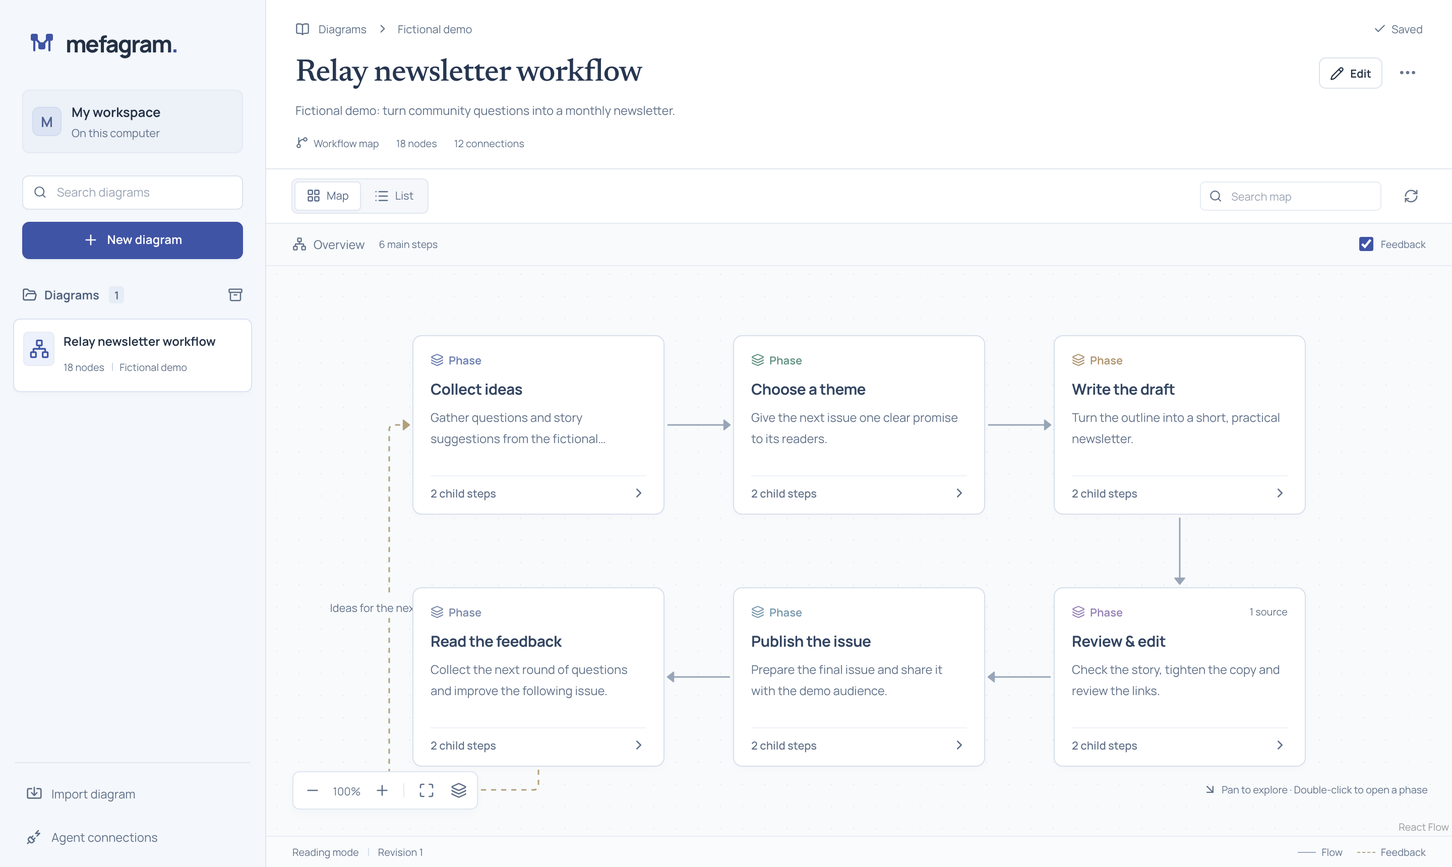
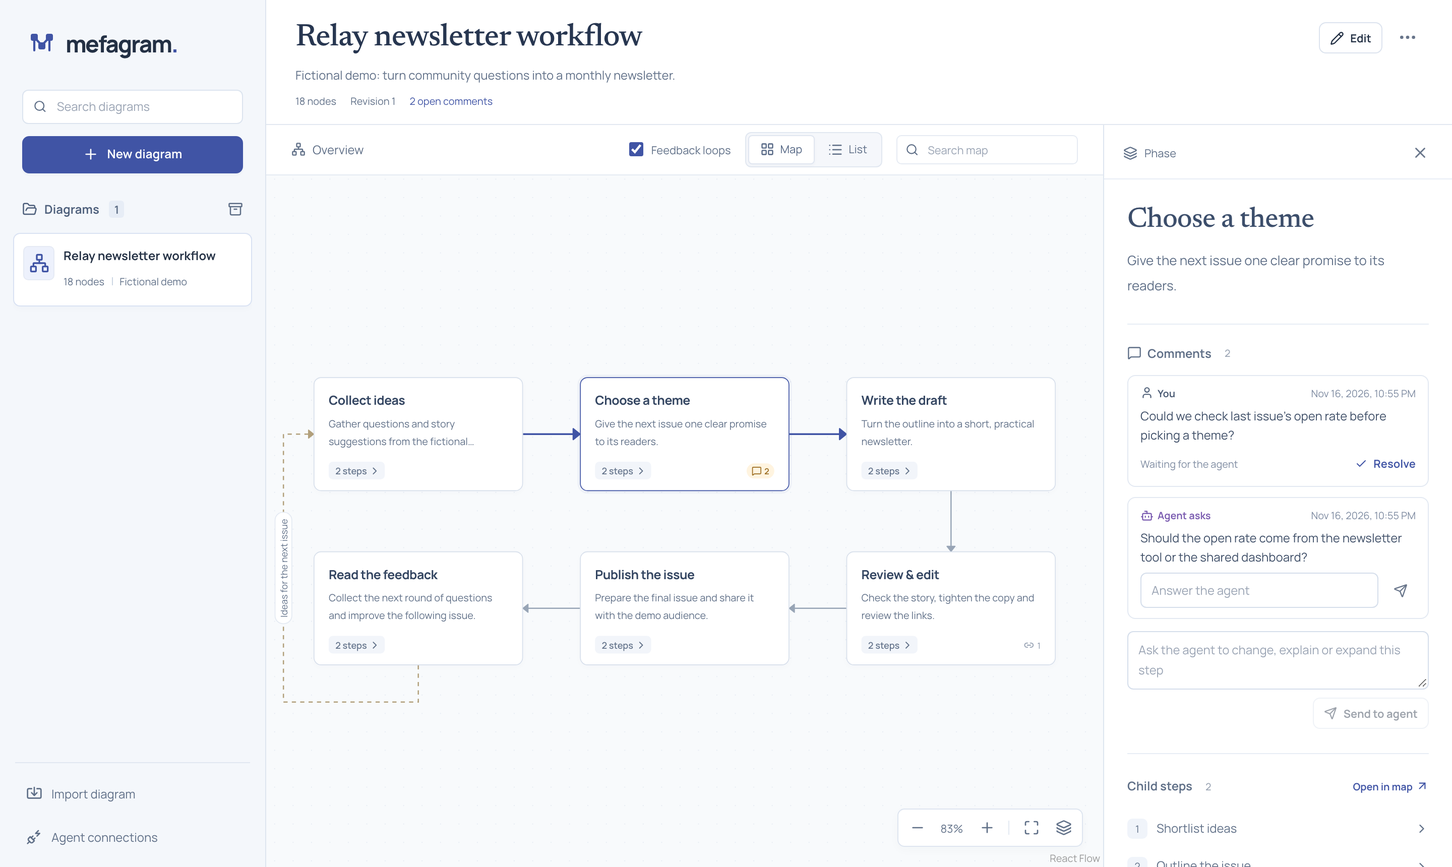
Document agent features and refresh the README
Explain the plugin, stdio CLI, feedback loop, current view, live
updates, projects, code references, Mermaid and SVG in the README and
agent guide, record verification, and show comments in the screenshot.
Edge labels on vertical runs now follow the line instead of covering a
card, and a node's comments come first in the inspector.

diff --git a/src/components/diagram-canvas.tsx b/src/components/diagram-canvas.tsx
@@ -157,26 +157,39 @@ function RoutedEdge(props: EdgeProps<MapEdge>) {
   const moved =
     !first ||
     !last ||
-    Math.abs(first.x - props.sourceX) > 2 ||
-    Math.abs(first.y - props.sourceY) > 2 ||
-    Math.abs(last.x - props.targetX) > 2 ||
-    Math.abs(last.y - props.targetY) > 2;
+    Math.abs(first.x - props.sourceX) > 12 ||
+    Math.abs(first.y - props.sourceY) > 12 ||
+    Math.abs(last.x - props.targetX) > 12 ||
+    Math.abs(last.y - props.targetY) > 12;
   const [fallback, fallbackX, fallbackY] = getSmoothStepPath(props);
   const path = moved
     ? fallback
     : route.points
         .map((point, index) => `${index ? "L" : "M"}${point.x},${point.y}`)
         .join(" ");
-  const mid = route.points[Math.floor((route.points.length - 1) / 2)];
-  const next =
-    route.points[
-      Math.min(
-        Math.floor((route.points.length - 1) / 2) + 1,
-        route.points.length - 1,
-      )
-    ];
-  const labelX = moved ? fallbackX : (mid.x + next.x) / 2;
-  const labelY = moved ? fallbackY : (mid.y + next.y) / 2;
+  // Label the longest segment of the route.
+  let best = 0;
+  let longest = -1;
+  for (let index = 0; index < route.points.length - 1; index++) {
+    const a = route.points[index];
+    const b = route.points[index + 1];
+    const size = Math.abs(a.x - b.x) + Math.abs(a.y - b.y);
+    if (size > longest) {
+      longest = size;
+      best = index;
+    }
+  }
+  const start = route.points[best];
+  const end = route.points[Math.min(best + 1, route.points.length - 1)];
+  const vertical =
+    !moved && Math.abs(start.x - end.x) < 1 && Math.abs(start.y - end.y) > 0;
+  const labelX = moved ? fallbackX : (start.x + end.x) / 2;
+  const labelY = moved ? fallbackY : (start.y + end.y) / 2;
+  // Vertical runs carry their label along the line, so it neither covers a
+  // card nor sticks out past the fitted view.
+  const anchor = vertical
+    ? "translate(-50%, -50%) rotate(-90deg)"
+    : "translate(-50%, -50%)";
   return (
     <>
       <BaseEdge
@@ -191,7 +204,7 @@ function RoutedEdge(props: EdgeProps<MapEdge>) {
           <span
             className={`edge-label nodrag nopan edge-label-${route.kind}`}
             style={{
-              transform: `translate(-50%, -50%) translate(${labelX}px,${labelY}px)`,
+              transform: `translate(${labelX}px,${labelY}px) ${anchor}`,
             }}
           >
             {route.label}

diff --git a/src/components/node-inspector.tsx b/src/components/node-inspector.tsx
@@ -161,6 +161,7 @@ export function NodeInspector({
     (edge) => edge.source === node.id || edge.target === node.id,
   );
   const byId = new Map(record.document.nodes.map((item) => [item.id, item]));
+  const hasComments = comments.some((comment) => comment.nodeId === node.id);
   return (
     <aside className="inspector" aria-label="Node details">
       <div className="inspector-top">
@@ -180,6 +181,14 @@ export function NodeInspector({
         <h2>{node.label}</h2>
         {node.description && (
           <p className="node-description">{node.description}</p>
+        )}
+        {/* A conversation with the agent comes first when there is one. */}
+        {hasComments && (
+          <NodeComments
+            nodeId={node.id}
+            comments={comments}
+            actions={commentActions}
+          />
         )}
         {editing && (
           <div className="inspector-actions">
@@ -306,11 +315,13 @@ export function NodeInspector({
             </div>
           </section>
         )}
-        <NodeComments
-          nodeId={node.id}
-          comments={comments}
-          actions={commentActions}
-        />
+        {!hasComments && (
+          <NodeComments
+            nodeId={node.id}
+            comments={comments}
+            actions={commentActions}
+          />
+        )}
         {node.tags.length > 0 && (
           <div className="tag-list inspector-tags">
             {node.tags.map((tag) => (

diff --git a/docs/agent-integration.md b/docs/agent-integration.md
@@ -4,58 +4,97 @@ Mefagram is a local diagram store, not an agent runtime. Claude (or any other MC
 
 Use Mefagram when an assistant needs to maintain persistent workflow diagrams, project plans or research maps that a person will revisit. Agents create and update semantic nodes and edges through MCP; people browse the same saved diagrams, notes, sources and revision history.
 
-## Endpoint and access
+## Connect an agent
 
-Streamable HTTP MCP: `http://127.0.0.1:4747/api/mcp`. There are no accounts or tokens. Every agent on this computer shares the same workspace while the app runs.
+Mefagram has no accounts or tokens. Every agent on this computer shares one workspace. There are two ways in:
 
-Access control is the loopback boundary. The server listens on `127.0.0.1` and refuses any request whose `Host` is not `localhost`, `127.0.0.1` or `[::1]` (DNS rebinding) and any request carrying another website's `Origin` (cross-site requests). Do not expose the port through a tunnel, reverse proxy or `--hostname 0.0.0.0`: anyone who can reach it can read and change every diagram.
+- **stdio (recommended):** `mefagram mcp` speaks MCP over stdio and starts the workspace in the background when it is not running, so the agent never finds it switched off.
+- **HTTP:** `http://127.0.0.1:4747/api/mcp` (Streamable HTTP), while the app runs.
 
 ### Claude Code
 
-Inside this repository, the bundled `.mcp.json` registers the server; Claude Code asks once before enabling it. To use Mefagram from any project:
+Install the plugin, which adds the MCP server plus skills for mapping processes, mapping the codebase and handling your comments:
 
-```sh
-claude mcp add --transport http --scope user mefagram http://127.0.0.1:4747/api/mcp
+```text
+/plugin marketplace add berkinduz/mefagram
+/plugin install mefagram@mefagram
 ```
 
-Check it with `claude mcp list`, or `/mcp` inside a session. If the app is not running, the server shows as failed; start it and reconnect.
+Or register only the server:
+
+```sh
+claude mcp add --scope user mefagram -- npx -y mefagram mcp
+```
+
+From a source checkout (before the npm package is available, or to run your own build), point at the CLI instead: `claude mcp add --scope user mefagram -- node /absolute/path/to/mefagram/bin/mefagram.mjs mcp`. Inside this repository, the bundled `.mcp.json` connects over HTTP. Check with `claude mcp list` or `/mcp`.
 
 ### Codex
 
-Codex reads MCP servers from `~/.codex/config.toml`; the ChatGPT desktop app, Codex CLI and IDE extension share it. Register Mefagram once:
+Codex reads MCP servers from `~/.codex/config.toml`; the ChatGPT desktop app, Codex CLI and IDE extension share it:
 
 ```sh
-codex mcp add mefagram --url http://127.0.0.1:4747/api/mcp
+codex mcp add mefagram -- npx -y mefagram mcp
 ```
 
-That adds:
+or, over HTTP while the app runs:
 
 ```toml
 [mcp_servers.mefagram]
 url = "http://127.0.0.1:4747/api/mcp"
 ```
 
-Inside this repository, the bundled `.codex/config.toml` does the same once you trust the project. Check it with `codex mcp list`. When Codex comes with the ChatGPT app, its CLI lives at `/Applications/ChatGPT.app/Contents/Resources/codex-cli/bin/codex` and may not be on your `PATH`; you can also edit the file directly.
+Inside this repository, the bundled `.codex/config.toml` does the same once you trust the project. When Codex comes with the ChatGPT app, its CLI lives at `/Applications/ChatGPT.app/Contents/Resources/codex-cli/bin/codex` and may not be on your `PATH`.
 
 ### Other clients
 
-Any MCP client that supports Streamable HTTP can use the same URL without credentials.
+Any MCP client can use either transport. Claude Desktop and claude.ai remote connectors run outside this computer and cannot reach `127.0.0.1`; use a local client.
 
-Claude Desktop and claude.ai remote connectors run outside this computer and cannot reach `127.0.0.1`; use Claude Code or another local client.
+### Access boundary
+
+The server listens on `127.0.0.1` and refuses any request whose `Host` is not `localhost`, `127.0.0.1` or `[::1]` (DNS rebinding) and any request carrying another website's `Origin`. Do not expose the port through a tunnel, reverse proxy or `--hostname 0.0.0.0`: anyone who can reach it can read and change every diagram.
 
 ## Tools
 
-| Tool                  | Purpose                                                                  |
-| --------------------- | ------------------------------------------------------------------------ |
-| `list_diagrams`       | Search title, description, notes and node content; returns IDs/revisions |
-| `get_diagram`         | Read the full saved document before changing it                          |
-| `create_diagram`      | Save title, description, tags and document                               |
-| `update_diagram`      | Apply explicit operations atomically with `expectedRevision`             |
-| `get_diagram_history` | List revision metadata                                                   |
-| `restore_diagram`     | Restore a snapshot as a new revision                                     |
-| `export_diagram`      | Return portable Mefagram JSON                                            |
+| Tool                          | Purpose                                                                         |
+| ----------------------------- | ------------------------------------------------------------------------------- |
+| `get_current_view`            | The diagram, phase and node the developer has open right now                    |
+| `list_diagrams`               | Search diagrams, optionally within a `project`; returns IDs, revisions, links   |
+| `get_diagram`                 | Read the full saved document before changing it                                 |
+| `create_diagram_from_mermaid` | Create a diagram from a Mermaid flowchart (the cheapest way to create one)      |
+| `create_diagram`              | Create a diagram from the full JSON document                                    |
+| `update_diagram`              | Apply explicit operations atomically with `expectedRevision`                    |
+| `get_feedback`                | The developer's open comments, and answers to your questions                    |
+| `resolve_feedback`            | Close a comment with a one-line reply                                           |
+| `ask_developer`               | Leave a question on a diagram or node                                           |
+| `get_diagram_history`         | List revision metadata                                                          |
+| `restore_diagram`             | Restore a snapshot as a new revision                                            |
+| `export_diagram`              | Export as lossless JSON, Mermaid, or a standalone SVG of the overview or a phase |
 
-`npm run agent -- tools` returns exact input schemas. `npm run agent -- call <tool> <arguments.json>` is a thin real MCP client, useful for agents with terminal access. It connects to `http://127.0.0.1:4747` unless `MEFAGRAM_URL` is set, and exits nonzero on tool errors.
+Saved and read diagrams include a `viewUrl`. Share it with the developer; append `&node=<id>` to open a specific node in its phase.
+
+`npm run agent -- tools` returns exact input schemas. `npm run agent -- call <tool> <arguments.json>` is a thin real MCP client. It connects to `http://127.0.0.1:4747` unless `MEFAGRAM_URL` is set, and exits nonzero on tool errors.
+
+## Working with the developer
+
+- **Current view.** When the developer says "this diagram" or "expand this step", call `get_current_view`: it returns what is on their screen, including the selected node's details.
+- **Feedback loop.** The developer comments on nodes or whole diagrams in the browser. `get_feedback` returns open comments with a `viewUrl` to the node. Make the change, then `resolve_feedback` with a short reply the developer sees next to their comment. To ask something, use `ask_developer`; the answer comes back through `get_feedback` (a comment with `author: "agent"` and a `reply`), which you then resolve.
+- **Live updates.** The workspace receives changes as they are saved: your edits appear immediately and changed nodes glow briefly, so the developer can watch you work.
+
+## Projects and code references
+
+Set `project` to the repository name and `projectRoot` to its absolute path when creating diagrams about a codebase. Nodes accept `code: [{ "path": "src/auth/login.ts", "line": 42, "label": "login()" }]`, with paths relative to `projectRoot`. The inspector opens them in VS Code, Cursor, Windsurf or Zed. Only reference files you have read.
+
+## Mermaid, SVG and repository files
+
+`create_diagram_from_mermaid` reads a practical subset of Mermaid flowcharts: `subgraph` becomes a phase, `{…}` a decision, `([…])` a result, `>…]` a note; `-.->` is a feedback loop, `---` a reference, and `-->|label|` a labelled flow. A `title:` front matter names the diagram. Add descriptions, notes, sources and code references afterwards with `update_diagram`.
+
+`export_diagram` with `format: "mermaid"` returns a flowchart for pull requests and READMEs; `format: "svg"` returns an image laid out like the workspace (optionally one phase with `scopeId`). To keep diagrams in a repository, write those exports to files, or run:
+
+```sh
+npx mefagram export docs/diagrams --project my-repo
+```
+
+which writes `.mefagram.json` (lossless, re-importable), `.mmd` and `.svg` for each diagram. `npx mefagram import <file>` imports either format.
 
 ## Reliable updates
 

diff --git a/README.md b/README.md
@@ -1,19 +1,41 @@
 # Mefagram
 
-**Your AI agent draws the map. You explore it.**
+**Your AI agent draws the map. You explore it, and talk back.**
 
-Long chats with Claude or Codex produce great plans, then scroll away. Mefagram gives your agent a place to save them as living diagrams: workflows, project plans and research maps that you can open in the browser, come back to next week, and ask the agent to update.
+Long chats with Claude or Codex produce great plans, then scroll away. Mefagram gives your agent a place to save them as living diagrams: workflows, project plans, research maps and maps of your codebase. You open them in the browser, comment on any step, and the agent picks your comments up and updates the map.
 
-![A workflow map in Mefagram: six phases with connections, each opening into its own steps](docs/images/overview.png)
+![A workflow map in Mefagram: six phases with connections, one with an open comment for the agent](docs/images/overview.png)
 
-- **Ask, don't draw.** Describe a process in chat. Your agent builds the diagram with phases, steps, decisions, notes and source links.
-- **Read big ideas calmly.** Start from a handful of phases, then open each one for its details. Switch between a map and a plain list.
-- **Keep it current.** Ask "add the review step we discussed" and the agent edits the existing map, never a fresh copy. Every change is a revision you can restore.
-- **Yours, on your machine.** No account, no API key, no cloud. Diagrams live in a local database; export any of them as JSON.
+- **Ask, don't draw.** Describe a process in chat. Your agent builds the diagram (from Mermaid, which it already writes fluently) with phases, decisions, notes and links.
+- **Talk back.** Comment on a node ("split this step", "what about refunds?"). The agent reads it with `get_feedback`, changes the map and replies. It can ask you questions the same way.
+- **Watch it happen.** Changes appear live as the agent saves them, and the nodes it touched light up.
+- **Jump to the code.** Codebase maps link each step to its file and line, opening in VS Code, Cursor, Windsurf or Zed.
+- **Take it anywhere.** Export Mermaid for pull requests, a standalone SVG for docs, or lossless JSON you can commit next to your code.
+- **Yours, on your machine.** No account, no API key, no cloud. One local workspace shared by all your agents.
 
 ## Get started
 
 You need **Node.js 24+**.
+
+**Claude Code**: install the plugin (MCP server plus skills to map processes, map your codebase and handle your comments):
+
+```text
+/plugin marketplace add berkinduz/mefagram
+/plugin install mefagram@mefagram
+```
+
+**Codex** (CLI, IDE extension and the ChatGPT app share this):
+
+```sh
+codex mcp add mefagram -- npx -y mefagram mcp
+```
+
+**Any other MCP client**: run `npx -y mefagram mcp` as a stdio server.
+
+The agent starts the workspace on demand. Open it yourself with `npx mefagram open`, or go to [127.0.0.1:4747](http://127.0.0.1:4747).
+
+<details>
+<summary>Run from source</summary>
 
 ```sh
 git clone https://github.com/berkinduz/mefagram.git
@@ -24,37 +46,21 @@ npm run build
 npm start
 ```
 
-Open [127.0.0.1:4747](http://127.0.0.1:4747). The example is a small fictional newsletter workflow; leave out `--example newsletter` to start empty.
+Then connect with `node /path/to/mefagram/bin/mefagram.mjs mcp`, or over HTTP at `http://127.0.0.1:4747/api/mcp`. Inside the repository, Claude Code and Codex pick up the bundled `.mcp.json` and `.codex/config.toml`.
 
-## Connect your agent
-
-Mefagram speaks [MCP](https://modelcontextprotocol.io). Keep the app running, then register it once:
-
-**Claude Code**
-
-```sh
-claude mcp add --transport http --scope user mefagram http://127.0.0.1:4747/api/mcp
-```
-
-**Codex** (CLI, IDE extension and the ChatGPT app share this)
-
-```sh
-codex mcp add mefagram --url http://127.0.0.1:4747/api/mcp
-```
-
-Working inside this repository? Claude Code and Codex pick up the bundled `.mcp.json` and `.codex/config.toml` automatically after you approve or trust the project. The in-app **Agent connections** panel has these commands ready to copy.
+</details>
 
 ## Things to ask
 
-- “Map our customer onboarding, including handoffs, decisions and links to the docs.”
+- “Map how a request flows through this repo, with links to the code.”
 - “Turn this conversation into a project plan in Mefagram, grouped into phases.”
-- “Open the onboarding map and add the security review we just talked about.”
-- “Make a research map of these five papers and how they relate.”
+- “I left comments on the onboarding map. Handle them.”
+- “Expand the step I'm looking at.”
 
 ## Good to know
 
 - Mefagram only accepts requests from this computer, which is why it needs no login. Don't expose the port to a network or tunnel.
-- Everything is stored in `.mefagram/`. Stop the app and copy that folder to back it up.
-- Several agents can work on the same workspace; if two edit the same diagram at once, the second one is asked to reread instead of overwriting.
+- Data lives in `~/.mefagram` (or `.mefagram/` in a source checkout). Stop the app and copy that folder to back it up.
+- `npx mefagram export docs/diagrams --project my-repo` writes every diagram of a project as `.mefagram.json`, `.mmd` and `.svg`.
 
 [Agent guide](docs/agent-integration.md) · [Install, update & backup](docs/installation.md) · [Contribute](CONTRIBUTING.md) · MIT licensed

diff --git a/docs/verification.md b/docs/verification.md
@@ -2,6 +2,12 @@
 
 Evidence is recorded separately for the application, its portable installer and a particular hosted deployment. Fixtures are synthetic. Private databases, credentials and raw local reports are excluded from Git and deployment bundles.
 
+## Agent–developer features — v0.2.0
+
+Added the feedback channel (`get_feedback`, `resolve_feedback`, `ask_developer`), `get_current_view`, live updates with change highlights, Mermaid import/export, SVG export, projects and code references, view links, the `mefagram` CLI with a stdio MCP bridge and repository export/import, a database lock, and a Claude Code plugin with skills.
+
+Local verification on 2026-11-16 passed typecheck, lint, 71 unit tests (three native PostgreSQL cases skipped without `TEST_DATABASE_URL`), the production build with bundle privacy check, and 12 production Chromium flows, including a live-update flow. A real MCP client drove `mefagram mcp` over stdio against a disposable database: the bridge started the workspace on demand, listed all 12 tools and created a diagram from Mermaid; `export` wrote JSON, Mermaid and SVG files and `import` read a Mermaid file back. A second server on the same database was refused with a clear message. `claude plugin validate` passed for the plugin and the marketplace. The npm package is not published yet, so `npx mefagram` and the plugin's MCP server work only after publishing; a source checkout works through `node bin/mefagram.mjs mcp`. `npm run verify:installation` was not rerun.
+
 ## Local mode — v0.2.0
 
 Sign-in, OAuth, consent and personal tokens were removed. Access control is now the loopback boundary: every page, asset, API and MCP request is refused unless its `Host` is loopback, and requests carrying another website's `Origin` are refused.

diff --git a/AGENTS.md b/AGENTS.md
@@ -13,7 +13,7 @@ This block is written and re-added by `next dev` — verify at `node_modules/nex
 - Mefagram is a local, single-user app with no accounts. Each person has one installation/database; all their agents share its loopback MCP endpoint (`http://127.0.0.1:4747/api/mcp`, no credentials). Clones are independent installations, not data synchronization. Keep the common project free of personal deployment assumptions.
 - Run `npm run setup` once before starting the app. Keep `.mefagram`, `.env.local` and personal diagram exports out of git and bundles.
 - The loopback Host/Origin guard (`src/proxy.ts`, `src/lib/http/local.ts`) is the only access control. Never weaken it or bind the server to a non-loopback interface.
-- For content work, use the running MCP endpoint or `npm run agent -- ...`; do not open or edit its live PGlite files. Read [docs/agent-integration.md](docs/agent-integration.md) first.
+- For content work, use the MCP endpoint (`node bin/mefagram.mjs mcp` or HTTP) or `npm run agent -- ...`; do not open or edit its live PGlite files (a lock file refuses a second process). Read [docs/agent-integration.md](docs/agent-integration.md) first.
 - Read a diagram before patching it. Preserve stable IDs/unrelated content. Supply expected revision and a unique mutation ID; retry an identical failed response with the same ID. Reconcile revision conflicts explicitly.
 - The bundled newsletter example is fictional. Keep README, installer and UI examples aligned. Never publish an owner’s project content, credentials or screenshots as public fixtures.
 - Use English for interface text, error messages, documentation and public fixtures. Preserve user-provided diagram content; do not translate existing data during upgrades.

diff --git a/docs/installation.md b/docs/installation.md
@@ -21,6 +21,21 @@ After the initial build, `npm start` reopens the saved workspace. `npm run dev` 
 
 Never bind the server to another interface (`--hostname 0.0.0.0`) or expose it through a tunnel or reverse proxy. Without accounts, anyone who reaches it can read and change every diagram.
 
+## Command line
+
+`mefagram` (or `npx mefagram`, or `node bin/mefagram.mjs` in a checkout) runs and connects the workspace:
+
+| Command | What it does |
+| --- | --- |
+| `mefagram start` | Run the workspace in the foreground; `--background` detaches it. |
+| `mefagram stop` / `status` | Stop a background workspace / show whether it runs. |
+| `mefagram open [id]` | Open the workspace (starting it if needed). |
+| `mefagram mcp` | MCP over stdio for agents; starts the workspace when needed. |
+| `mefagram export <dir> [--project p]` | Write diagrams as `.mefagram.json`, `.mmd` and `.svg`. |
+| `mefagram import <file>` | Import a JSON export or a Mermaid flowchart. |
+
+All accept `--port` (default 4747, or `MEFAGRAM_PORT`). An installed package keeps its database in `~/.mefagram/db` (override with `MEFAGRAM_DATA_DIR`) and background logs in `~/.mefagram`; a source checkout uses the `MEFAGRAM_DATA_DIR` from its `.env.local`. Only one process can open a local database at a time: a second one stops with a clear "already open" message instead of overwriting data.
+
 ## Configuration
 
 `.env.example` lists the options. `MEFAGRAM_DATA_DIR` selects a durable local directory (default `.mefagram/db`); `DATABASE_URL` selects a Postgres database instead. Setup saves these in `.env.local`. Avoid changing storage targets in place: use a separate checkout for a new installation and deliberately export/import or migrate data.

diff --git a/CHANGELOG.md b/CHANGELOG.md
@@ -8,6 +8,15 @@
 - Move existing diagrams, revision history and mutation receipts to the local owner on upgrade; setup removes obsolete secrets and `.mefagram/local-access.json`.
 - Remove hosted (Vercel/Netlify) deployment support.
 - Serve on port 4747 by default instead of 3000, so Mefagram runs alongside other development servers.
+- Add a feedback channel: developers comment on nodes and diagrams; agents read them with `get_feedback`, reply with `resolve_feedback` and ask with `ask_developer`.
+- Stream changes live to the workspace and highlight the nodes an agent changed; agents see what the developer has open with `get_current_view`.
+- Create diagrams from Mermaid flowcharts and export Mermaid or standalone SVG; the import dialog accepts `.mmd` files.
+- Group diagrams by project and link nodes to code (file and line) that opens in VS Code, Cursor, Windsurf or Zed.
+- Return a `viewUrl` from MCP tools; `?node=` opens a node in its phase.
+- Add the `mefagram` CLI: a stdio MCP bridge that starts the workspace on demand, `start`/`stop`/`status`/`open`, and `export`/`import` for repository files.
+- Add a Claude Code plugin and marketplace with skills to map processes, map the codebase and handle feedback.
+- Simplify the reading view, and stop a clicked node from recentring the map.
+- Refuse a second process opening the same local database.
 
 ## v0.1.2 — 2026-11-05
 
